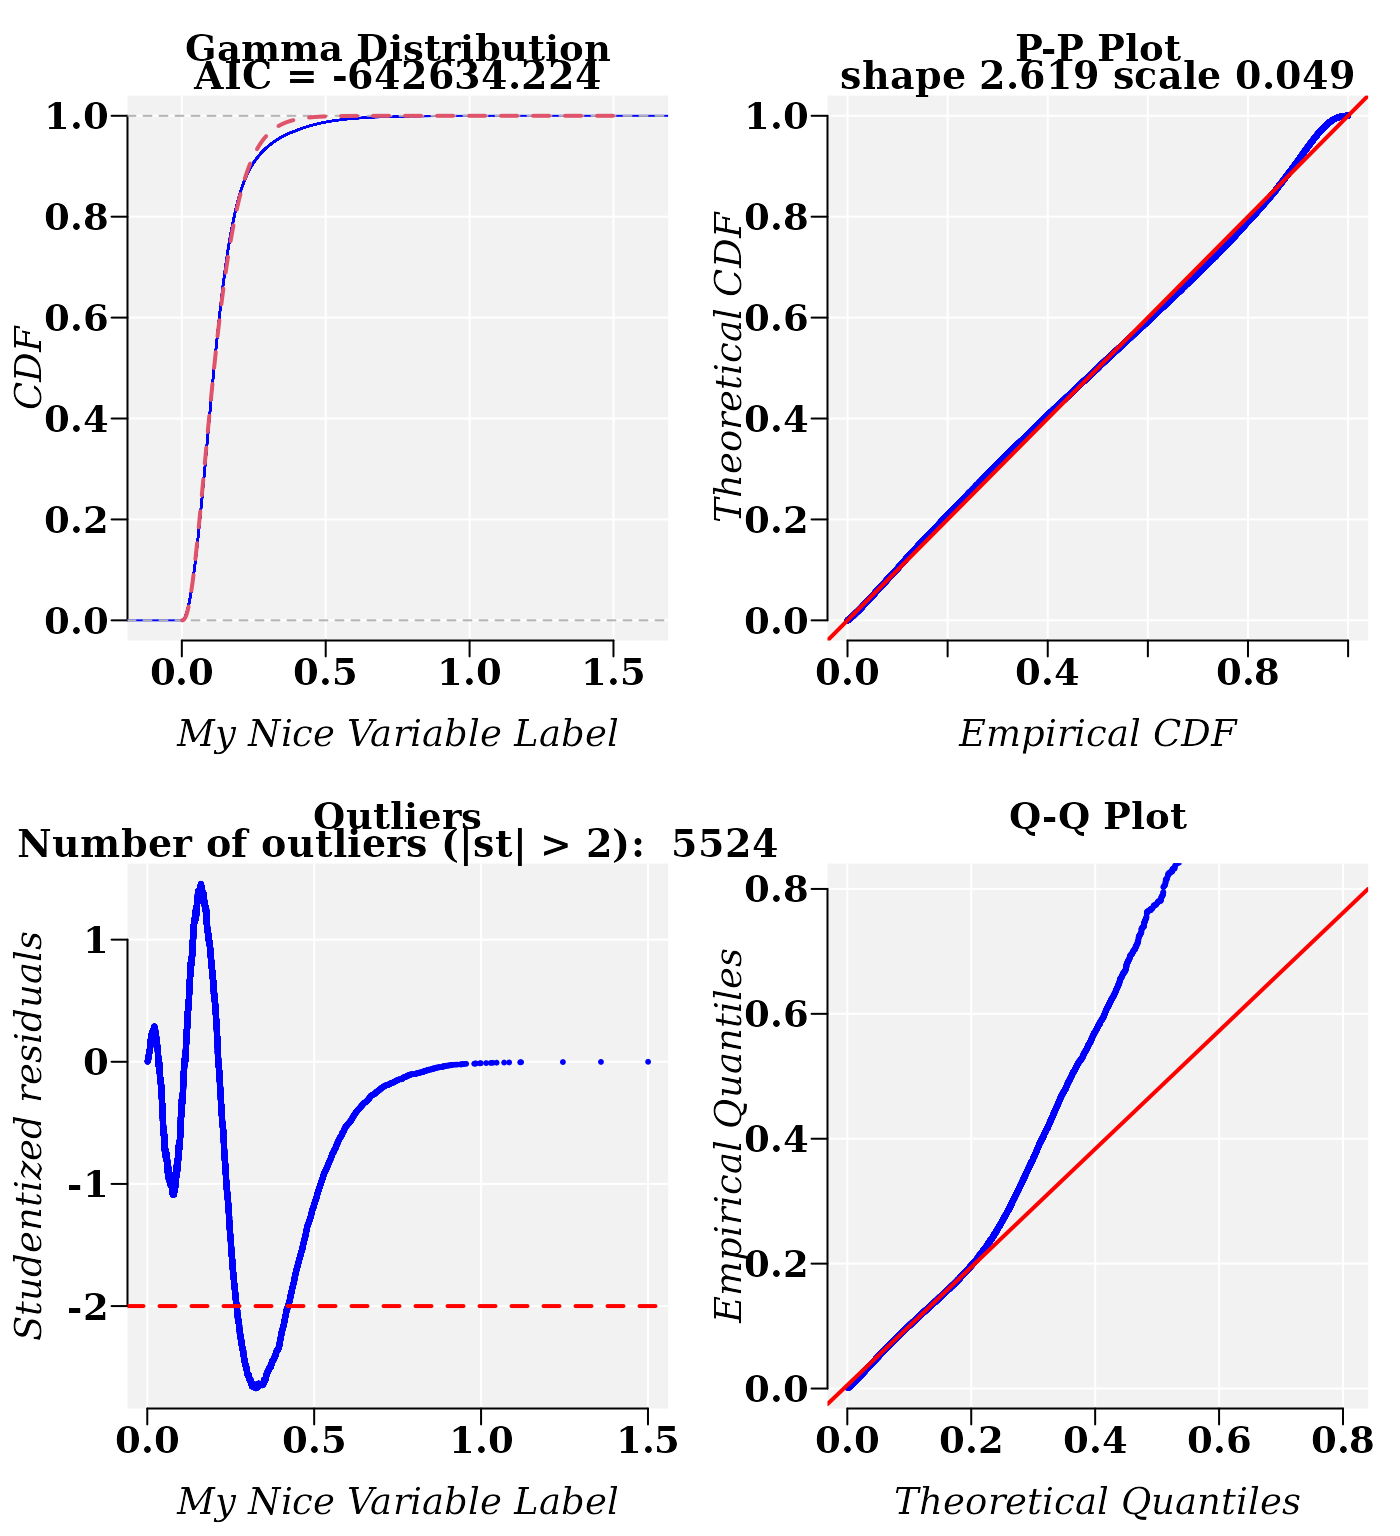
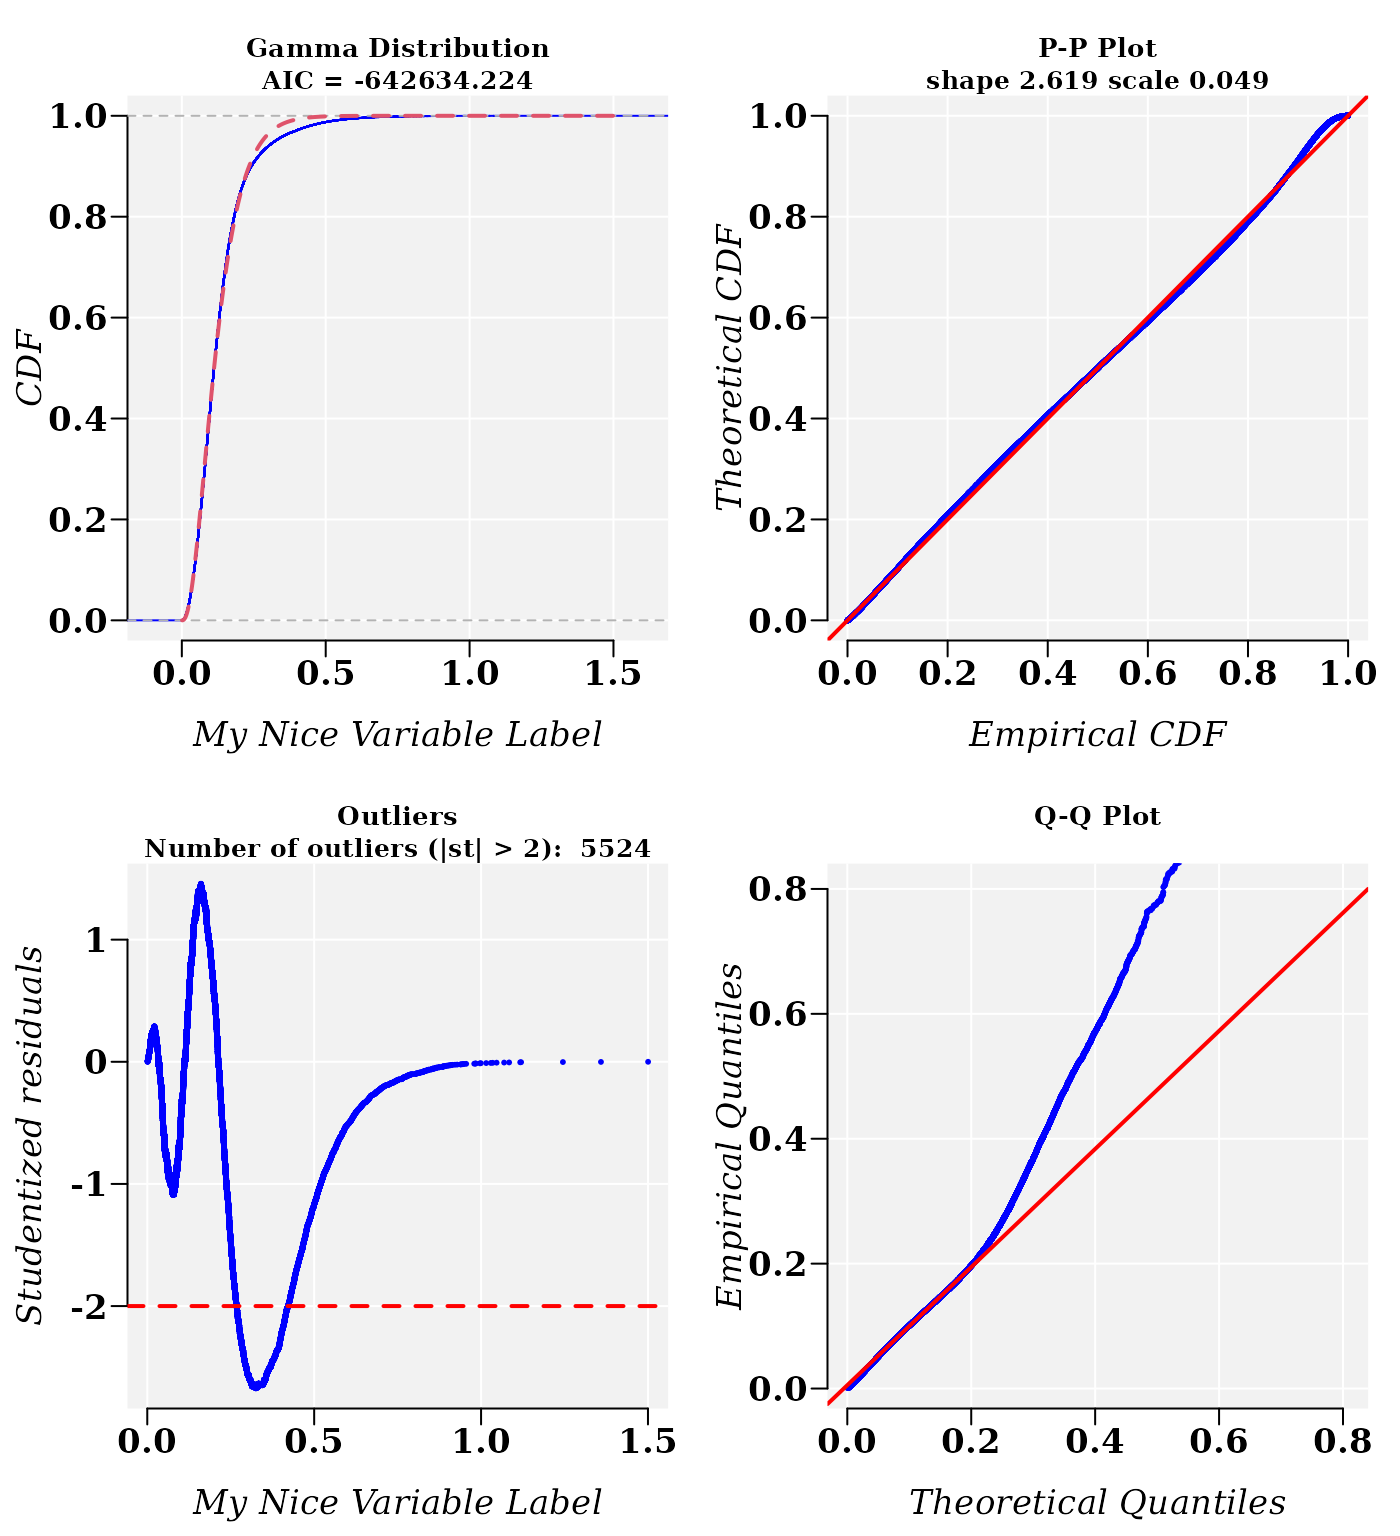
Update vignettes

diff --git a/usefr/articles/usefr.html b/usefr/articles/usefr.html
@@ -149,7 +149,7 @@ Park, PA 16802<br><a class="author_email" href="mailto:#"></a><a href="mailto:ru
 <span><span class="kw"><a href="https://rdrr.io/r/base/library.html" class="external-link">library</a></span><span class="op">(</span><span class="va">gridExtra</span><span class="op">)</span></span></code></pre></div>
 </div>
 <div class="section level2">
-<h2 id="nonlinear-fit-of-a-commutative-distribution-functions">Nonlinear fit of a commutative distribution functions<a class="anchor" aria-label="anchor" href="#nonlinear-fit-of-a-commutative-distribution-functions"></a>
+<h2 id="nonlinear-fit-of-a-cumulative-distribution-functions-cdf">Nonlinear fit of a Cumulative Distribution Functions (CDF)<a class="anchor" aria-label="anchor" href="#nonlinear-fit-of-a-cumulative-distribution-functions-cdf"></a>
 </h2>
 <p>Usually the parameter estimation of a cumulative distribution
 function (<em>CDF</em>) are accomplished using the corresponding
@@ -290,8 +290,8 @@ model:</p>
 <span>    distNames <span class="op">=</span> <span class="fu"><a href="https://rdrr.io/r/base/c.html" class="external-link">c</a></span><span class="op">(</span><span class="st">"Weibull"</span>, <span class="st">"3P Weibull"</span>, <span class="st">"Normal"</span><span class="op">)</span>,</span>
 <span>    xlabel <span class="op">=</span> <span class="st">"My Nice Variable Label"</span>,</span>
 <span>    plot <span class="op">=</span> <span class="cn">TRUE</span>, plot.num <span class="op">=</span> <span class="fl">2</span>, font.lab <span class="op">=</span> <span class="fl">3</span>, font <span class="op">=</span> <span class="fl">2</span>, </span>
-<span>    font.axis <span class="op">=</span> <span class="fl">2</span>, family <span class="op">=</span> <span class="st">"serif"</span>, cex.text <span class="op">=</span> <span class="fl">1.2</span>,</span>
-<span>    cex.main <span class="op">=</span> <span class="fl">1.4</span>, cex.lab <span class="op">=</span> <span class="fl">1.4</span>, cex.axis <span class="op">=</span> <span class="fl">1.4</span></span>
+<span>    font.axis <span class="op">=</span> <span class="fl">2</span>, family <span class="op">=</span> <span class="st">"serif"</span>,</span>
+<span>    cex.lab <span class="op">=</span> <span class="fl">1.3</span>, cex.axis <span class="op">=</span> <span class="fl">1.3</span></span>
 <span><span class="op">)</span></span></code></pre></div>
 <pre><code><span><span class="co">## </span></span>
 <span><span class="co">## *** Fitting Weibull distribution ...</span></span></code></pre>

diff --git a/usefr/articles/Nonlinear_Fit_of_Mixture_Distributions.html b/usefr/articles/Nonlinear_Fit_of_Mixture_Distributions.html
@@ -346,8 +346,8 @@ model, followed by the Gamma model.</p>
 <span>    distNames <span class="op">=</span> <span class="fu"><a href="https://rdrr.io/r/base/c.html" class="external-link">c</a></span><span class="op">(</span><span class="st">"Gamma"</span>, <span class="st">"Weibull"</span>, <span class="st">"3P Weibull"</span>, <span class="st">"Generalized 3P Gamma"</span><span class="op">)</span>,</span>
 <span>    xlabel <span class="op">=</span> <span class="st">"My Nice Variable Label"</span>,</span>
 <span>    plot <span class="op">=</span> <span class="cn">TRUE</span>, plot.num <span class="op">=</span> <span class="fl">2</span>, font.lab <span class="op">=</span> <span class="fl">3</span>, font <span class="op">=</span> <span class="fl">2</span>, </span>
-<span>    font.axis <span class="op">=</span> <span class="fl">2</span>, family <span class="op">=</span> <span class="st">"serif"</span>, cex.text <span class="op">=</span> <span class="fl">1.2</span>,</span>
-<span>    cex.main <span class="op">=</span> <span class="fl">1.4</span>, cex.lab <span class="op">=</span> <span class="fl">1.4</span>, cex.axis <span class="op">=</span> <span class="fl">1.4</span></span>
+<span>    font.axis <span class="op">=</span> <span class="fl">2</span>, family <span class="op">=</span> <span class="st">"serif"</span>,</span>
+<span>    cex.lab <span class="op">=</span> <span class="fl">1.3</span>, cex.axis <span class="op">=</span> <span class="fl">1.3</span></span>
 <span><span class="op">)</span></span></code></pre></div>
 <pre><code><span><span class="co">## </span></span>
 <span><span class="co">## *** Fitting Gamma distribution ...</span></span></code></pre>
